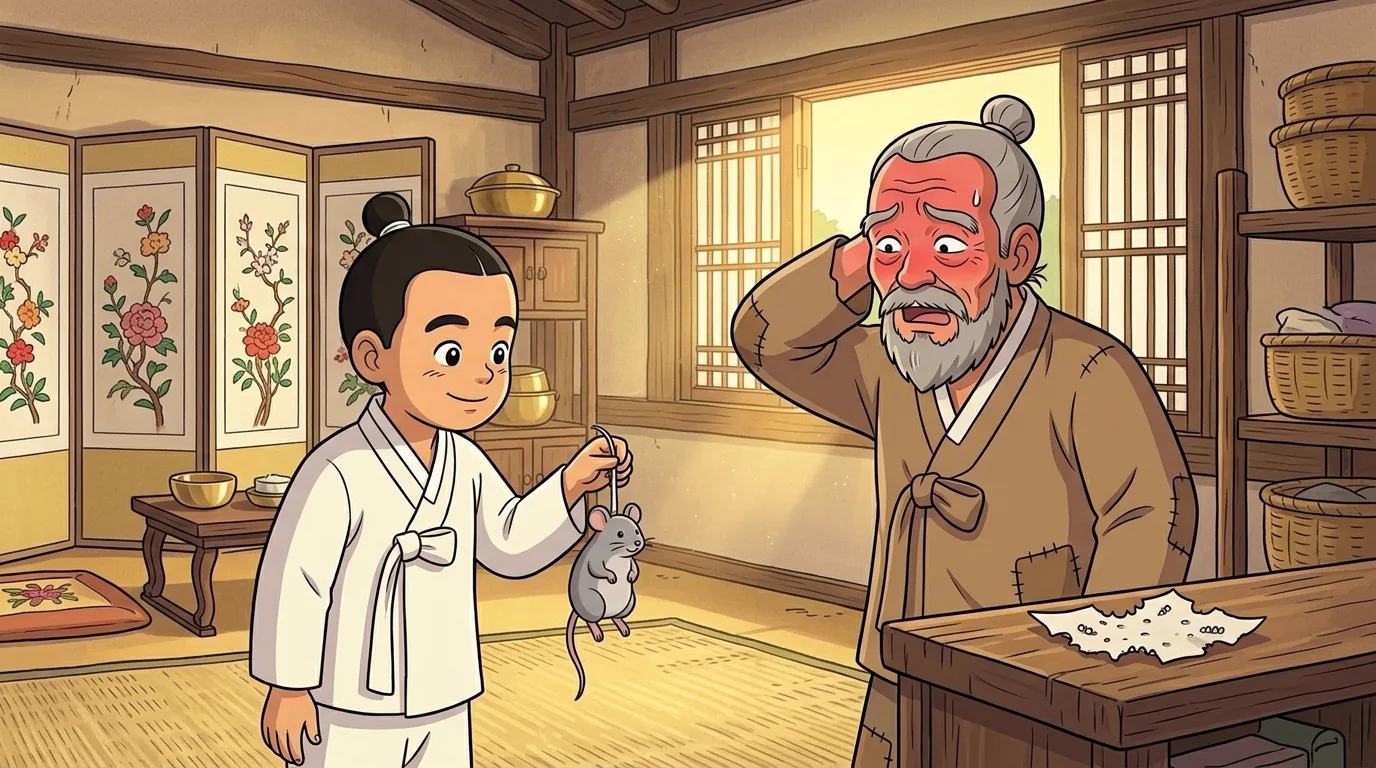
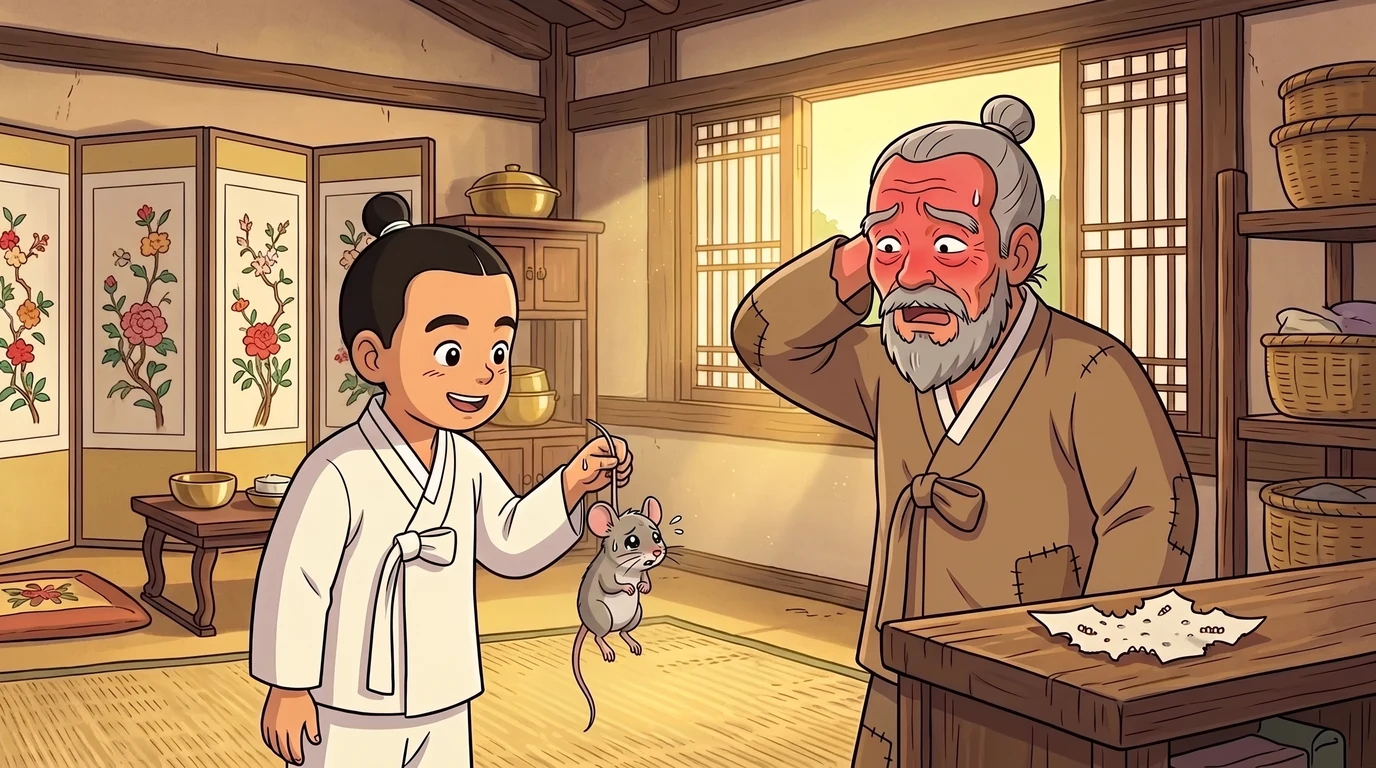
우리말 낱말 다섯 권 — 할미꽃·청개구리·까치·며느리·좁쌀
쪽마다 개수를 맞추지 않는다. 그 쪽에 아이가 모를 말이 여섯이면 여섯,
없으면 아예 없다. 「읽고 나서」 쪽은 어른이 읽는 글이라 비워 두었다.

뜻은 사전에서 베끼지 않고 아이 말로 새로 썼다.
  선반 — 벽에 달아 물건을 얹어 두는 널빤지.
  온데간데없다 — 어디로 갔는지 하나도 안 보이다.
  쥐 죽은 듯 — 아무 소리도 없이 아주 조용한 모양.
  힘에 부치다 — 힘이 모자라 벅차다.

좁쌀 한 톨 03-mouse 그림도 새로 그린 것으로 바꿨다. 쥐가 귀여워졌다.

diff --git a/learning/literacy-numeracy/story-books/korea-tales/banggwi-myeoneuri/app.js b/learning/literacy-numeracy/story-books/korea-tales/banggwi-myeoneuri/app.js
@@ -711,6 +711,101 @@ const AFTERWORD = {
     ]
 };
 
+
+/* ── 우리말 낱말 ────────────────────────────────────────────
+   아이가 아직 안 배웠을 만한 말만 그 쪽에 모았다. 없는 쪽은 비워 둔다.
+   사전 말투를 쓰지 않는다. 아이가 그대로 알아들을 말로 짧게 쓴다.
+   예문은 그 쪽에 나온 문장 그대로다. */
+const WORDS_KO = {
+    "cover": [
+        { w: "며느리", k: "아들의 아내.", s: "방귀쟁이 며느리는 지은이가 없는 구전 설화예요." },
+        { w: "기둥", k: "지붕을 받치고 선 굵은 나무.", s: "방귀 한 번에 기둥이 흔들릴 만큼 힘이 센 며느리가 나오는 이야기랍니다." },
+        { w: "부풀리다", k: "실제보다 크게 말하다.", s: "몸에서 나는 소리와 냄새를 크게 부풀려 웃음을 만드는 갈래가 따로 있어요." },
+        { w: "시집", k: "남편의 집안.", s: "옛날에 시집온 며느리는 시집 식구들 앞에서" },
+        { w: "소동", k: "여럿이 놀라 벌어지는 큰 일.", s: "참다 참다 터져 버린 방귀 하나가 이렇게 큰 소동이 되는 것도" }
+    ],
+    "01-bride.webp": [
+        { w: "야무지다", k: "하는 일이 빈틈없고 똑 부러지다.", s: "얼굴도 곱고 부지런한 데다 손끝까지 야무졌지요." },
+        { w: "새벽같이", k: "아주 이른 아침에.", s: "새벽같이 일어나 물을 긷고 밥을 지었답니다." },
+        { w: "긷다", k: "우물이나 샘에서 물을 떠 오다.", s: "새벽같이 일어나 물을 긷고 밥을 지었답니다." },
+        { w: "자자하다", k: "소문이 널리 퍼지다.", s: "동네에서도 소문이 자자했지요." },
+        { w: "푸르뎅뎅하다", k: "보기 싫게 푸르스름하다.", s: "노랗다 못해 푸르뎅뎅해졌지 뭐예요." }
+    ],
+    "02-ask.webp": [
+        { w: "우물쭈물하다", k: "말을 못 하고 망설이다.", s: "며느리는 한참을 우물쭈물하기만 했습니다." },
+        { w: "차마", k: "부끄럽거나 안타까워 도저히.", s: "차마 입이 떨어지지 않는 모양이었어요." },
+        { w: "꼼지락거리다", k: "조금씩 느리게 움직이다.", s: "방바닥만 내려다보며 손가락을 꼼지락거렸지요." }
+    ],
+    "03-permit.webp": [
+        { w: "대수", k: "크게 문제 될 일.", s: "허허, 그게 무슨 대수라고." },
+        { w: "내젓다", k: "손을 좌우로 흔들다.", s: "시아버지가 껄껄 웃으며 손을 내저었습니다." },
+        { w: "여태", k: "지금까지 줄곧.", s: "별것도 아닌 일로 여태 참았나 싶었거든요." },
+        { w: "흉보다", k: "남의 잘못을 들추어 말하다.", s: "이 집에서 그걸 흉볼 사람이 어디 있느냐." },
+        { w: "갸웃하다", k: "고개를 조금 기울이다.", s: "시어머니가 고개를 갸웃했어요." }
+    ],
+    "04-brace.webp": [
+        { w: "설마설마", k: "그럴 리 없다고 자꾸 여기는 모양.", s: "식구들은 설마설마 하면서도 하나씩 붙들었습니다." },
+        { w: "하도", k: "너무나.", s: "며느리가 하도 진지하게 말하니" },
+        { w: "진지하다", k: "장난기 없이 참되다.", s: "며느리가 하도 진지하게 말하니" },
+        { w: "대청", k: "옛집 가운데 있는 넓은 마루.", s: "시아버지는 대청 기둥을 두 팔로 끌어안았어요." },
+        { w: "문고리", k: "문을 여닫을 때 잡는 고리.", s: "시어머니는 문고리를 잡고" },
+        { w: "솥뚜껑", k: "솥을 덮는 뚜껑.", s: "남편은 솥뚜껑 손잡이를 꼭 쥐었습니다." },
+        { w: "쥐 죽은 듯", k: "아무 소리도 없이 아주 조용한 모양.", s: "방 안이 쥐 죽은 듯 조용해졌지요." },
+        { w: "마른침", k: "긴장했을 때 삼키는 침.", s: "어디선가 마른침 삼키는 소리가 났답니다." }
+    ],
+    "05-boom.webp": [
+        { w: "들썩이다", k: "들렸다 내려앉았다 하다.", s: "집이 통째로 들썩였습니다." },
+        { w: "기왓장", k: "지붕을 덮는 기와 한 장.", s: "문짝이 떨어져 나가고 기왓장이 우수수 쏟아졌어요." },
+        { w: "우수수", k: "여럿이 한꺼번에 쏟아지는 모양.", s: "기왓장이 우수수 쏟아졌어요." },
+        { w: "치솟다", k: "위로 세차게 솟아오르다.", s: "마당의 흙먼지가 하늘까지 치솟았지요." },
+        { w: "우지끈", k: "단단한 것이 부러지는 소리.", s: "기둥이 우지끈 소리를 냈지요." }
+    ],
+    "06-fly.webp": [
+        { w: "모이", k: "새에게 주는 먹이.", s: "마당에서 모이를 쪼던 닭들은 깃털만 남기고 사라져 버렸답니다." },
+        { w: "쪼다", k: "부리로 콕콕 찍다.", s: "마당에서 모이를 쪼던 닭들은" },
+        { w: "끙끙거리다", k: "아파서 앓는 소리를 내다.", s: "여기저기서 끙끙거리는 소리가 났지요." },
+        { w: "발그레하다", k: "알맞게 발그스름하다.", s: "며느리의 얼굴빛은 어느새 발그레하게 돌아와 있었습니다." }
+    ],
+    "07-send.webp": [
+        { w: "상투", k: "옛날 어른 남자가 머리를 틀어 올린 것.", s: "상투가 다 풀어져 머리가 산발이었지요." },
+        { w: "산발", k: "머리가 마구 흐트러진 모양.", s: "상투가 다 풀어져 머리가 산발이었지요." },
+        { w: "친정", k: "시집온 여자의 원래 집.", s: "아가야, 아무래도 친정에 다녀오는 게 좋겠구나." },
+        { w: "보따리", k: "물건을 싸서 꾸린 짐.", s: "보따리 하나가 전부였지요." },
+        { w: "터덜터덜", k: "힘없이 걷는 모양.", s: "둘은 발끝만 내려다보며 터덜터덜 걸었답니다." }
+    ],
+    "08-road.webp": [
+        { w: "소란스럽다", k: "시끄럽고 어수선하다.", s: "한참을 걷는데 길가가 몹시 소란스러웠습니다." },
+        { w: "웅성거리다", k: "여럿이 모여 수군대다.", s: "커다란 배나무 아래에 장수들이 잔뜩 모여 웅성거리고 있었어요." },
+        { w: "주렁주렁", k: "열매가 많이 매달린 모양.", s: "나무에는 잘 익은 노란 배가 주렁주렁 달려 있었답니다." },
+        { w: "장대", k: "길고 굵은 막대기.", s: "장대가 닿아야 말이지." },
+        { w: "발을 동동 구르다", k: "안타까워 어쩔 줄 몰라 하다.", s: "장수들은 발만 동동 구르며 나무만 올려다보고 있었지요." }
+    ],
+    "09-offer.webp": [
+        { w: "소매", k: "옷의 팔을 넣는 부분.", s: "남편이 소매를 붙잡았지만" },
+        { w: "훑어보다", k: "위아래로 살펴보다.", s: "장수들이 며느리를 위아래로 훑어보았어요." },
+        { w: "킥킥", k: "참으며 웃는 소리.", s: "그러더니 저희끼리 킥킥 웃었지요." },
+        { w: "사다리", k: "높은 데를 오를 때 쓰는 것.", s: "댁이? 사다리도 없이?" },
+        { w: "절반", k: "반.", s: "따 주기만 하면 절반을 드리리다!" }
+    ],
+    "10-aim.webp": [
+        { w: "여미다", k: "옷을 단정히 잡아 매만지다.", s: "치맛자락을 단단히 여미면서요." },
+        { w: "딴판", k: "아주 다른 모습.", s: "목소리가 아까와는 딴판으로 야무졌지요." },
+        { w: "어리둥절하다", k: "뭐가 뭔지 몰라 얼떨떨하다.", s: "장수들이 어리둥절해하며 뒷걸음질을 쳤습니다." },
+        { w: "볼록하다", k: "겉으로 도도록하게 나오다.", s: "배가 볼록하게 부풀어 오르는 것이 보였답니다." }
+    ],
+    "11-pears.webp": [
+        { w: "휘청이다", k: "힘없이 이리저리 흔들리다.", s: "배나무가 통째로 휘청였습니다." },
+        { w: "뿌리째", k: "뿌리까지 통째로.", s: "뿌리째 뽑히는 게 아닌가 싶을 만큼 크게 흔들렸지요." }
+    ],
+    "12-home.webp": [
+        { w: "엽전", k: "옛날에 쓰던 둥근 쇠돈.", s: "장수들은 약속대로 배와 엽전을 한 아름 안겨 주었습니다." },
+        { w: "한 아름", k: "두 팔로 안을 만큼의 양.", s: "배와 엽전을 한 아름 안겨 주었습니다." },
+        { w: "꾸러미", k: "여럿을 한데 묶은 덩이.", s: "엽전 꾸러미를 보고 입이 함박만 해졌지요." },
+        { w: "함박", k: "아주 큰 함지박.", s: "입이 함박만 해졌지요." },
+        { w: "웃음바다", k: "여럿이 한꺼번에 크게 웃는 모습.", s: "온 집안이 웃음바다가 되었답니다." }
+    ]
+};
+
 /* ── 한국어·영어 ────────────────────────────────────────────
    글은 두 벌이다. 위쪽 단추를 누르면 EN 쪽으로 갈아 끼우고 쪽을 다시 짠다.
    영어 원고가 없는 책은 단추가 아예 뜨지 않는다. */

diff --git a/learning/literacy-numeracy/story-books/korea-tales/halmikkot/app.js b/learning/literacy-numeracy/story-books/korea-tales/halmikkot/app.js
@@ -628,6 +628,87 @@ const AFTERWORD = {
     ]
 };
 
+
+/* ── 우리말 낱말 ────────────────────────────────────────────
+   아이가 아직 안 배웠을 만한 말만 그 쪽에 모았다. 없는 쪽은 비워 둔다.
+   사전 말투를 쓰지 않는다. 아이가 그대로 알아들을 말로 짧게 쓴다.
+   예문은 그 쪽에 나온 문장 그대로다. */
+const WORDS_KO = {
+    "cover": [
+        { w: "유래담", k: "왜 그렇게 되었는지를 풀어 주는 이야기.", s: "이야기로 풀어낸 유래담이랍니다." },
+        { w: "볕", k: "해에서 오는 따뜻한 빛.", s: "이른 봄 무덤가나 볕 잘 드는 언덕에 피는 우리나라 들꽃이에요." },
+        { w: "들꽃", k: "들이나 산에 저절로 피는 꽃.", s: "볕 잘 드는 언덕에 피는 우리나라 들꽃이에요." },
+        { w: "줄기", k: "잎과 꽃을 받치고 서 있는 부분.", s: "줄기가 활처럼 굽어 꽃이 늘 땅을 내려다보고" },
+        { w: "솜털", k: "아주 가늘고 부드러운 털.", s: "온몸에 흰 솜털이 촘촘히 나 있지요." },
+        { w: "촘촘히", k: "사이가 아주 좁게 빽빽이.", s: "온몸에 흰 솜털이 촘촘히 나 있지요." }
+    ],
+    "01-daughters.webp": [
+        { w: "산골", k: "산속 깊이 들어앉은 마을.", s: "옛날 어느 산골에 젊은 어머니가 딸 셋과 살았습니다." },
+        { w: "밤낮없이", k: "밤에도 낮에도 쉬지 않고.", s: "일찍 혼자가 된 어머니는 밤낮없이 일했어요." },
+        { w: "나물", k: "밥반찬으로 먹는 들풀이나 산풀.", s: "아침 일찍 일어나 산에 올라 나물을 캐고" },
+        { w: "등잔", k: "기름을 태워 불을 밝히던 옛날 등.", s: "밤에는 등잔 밑에서 남의 옷을 만들어 주었지요." },
+        { w: "손마디", k: "손가락이 접히는 마디.", s: "그러는 사이 손마디가 굵어지고 허리가 굽어 갔지요." },
+        { w: "배곯다", k: "먹을 것이 없어 배가 고프다.", s: "우리 딸들 배곯게는 안 한다." }
+    ],
+    "02-married.webp": [
+        { w: "시집가다", k: "여자가 결혼해 남편 집으로 가다.", s: "세월이 흘러 딸들이 하나둘 시집을 갔습니다." },
+        { w: "기와집", k: "지붕을 기와로 덮은 좋은 집.", s: "첫째는 고개 너머 큰 기와집으로 갔어요." },
+        { w: "초가집", k: "짚으로 지붕을 덮은 집.", s: "막내는 산 아래 작은 초가집으로 갔답니다." },
+        { w: "배웅하다", k: "떠나는 사람을 따라 나가 보내 주다.", s: "어머니는 세 딸을 차례로 배웅했어요." },
+        { w: "오냐", k: "어른이 아이 말에 그래 하고 답하는 말.", s: "오냐, 걱정 말거라." }
+    ],
+    "03-alone.webp": [
+        { w: "기운", k: "몸을 움직이게 하는 힘.", s: "혼자 남은 어머니는 해가 갈수록 기운이 빠졌습니다." },
+        { w: "통", k: "도무지, 전혀.", s: "밥맛도 통 없구나." },
+        { w: "말다", k: "국이나 물에 밥을 넣어 풀다.", s: "어머니는 남은 밥을 물에 말아 혼자 먹곤 했답니다." },
+        { w: "꼬부랑", k: "등이 굽어 구부정한 모양.", s: "어머니는 어느새 꼬부랑 할머니가 되었어요." },
+        { w: "흐드러지다", k: "꽃이 아주 많이 활짝 피다.", s: "마당가에는 진달래가 흐드러지게 피어 있었지요." }
+    ],
+    "04-first.webp": [
+        { w: "인기척", k: "사람이 있는 낌새.", s: "문 안에서 부스럭거리는 인기척이 났어요." },
+        { w: "이내", k: "곧, 얼마 지나지 않아.", s: "그러더니 이내 조용해졌습니다." },
+        { w: "끝내", k: "마지막까지.", s: "문은 끝내 열리지 않았지요." }
+    ],
+    "05-second.webp": [
+        { w: "나룻배", k: "강을 건네주는 작은 배.", s: "할머니는 나룻배를 얻어 타고 강을 건너 둘째 딸네로 갔습니다." },
+        { w: "사공", k: "배를 젓는 사람.", s: "맏이에게 주려고 들고 온 나물을 사공에게 대신 주었지요." },
+        { w: "맏이", k: "여러 자식 가운데 첫째.", s: "맏이에게 주려고 들고 온 나물을" },
+        { w: "기색", k: "얼굴에 드러난 마음.", s: "그런데 둘째의 얼굴이 반가운 기색이 아니었습니다." },
+        { w: "스르르", k: "소리 없이 슬며시.", s: "대문이 스르르 닫혔습니다." }
+    ],
+    "06-hill.webp": [
+        { w: "기울다", k: "해가 서쪽으로 내려가다.", s: "해가 기울었습니다." },
+        { w: "산그늘", k: "산이 해를 가려 생기는 그늘.", s: "산그늘이 살며시 내려앉기 시작했어요." },
+        { w: "천근만근", k: "아주 무거운 것을 이르는 말.", s: "다리가 천근만근이었답니다." },
+        { w: "간신히", k: "아주 힘들게 겨우.", s: "간신히 언덕에 올라서자" }
+    ],
+    "07-rest.webp": [
+        { w: "중턱", k: "산이나 언덕의 가운데쯤.", s: "언덕 중턱까지 내려오자 할머니는 그만 주저앉고 말았습니다." },
+        { w: "주저앉다", k: "힘이 빠져 그 자리에 앉아 버리다.", s: "할머니는 그만 주저앉고 말았습니다." },
+        { w: "가쁘다", k: "숨쉬기가 힘들다.", s: "숨이 가빠 더는 한 걸음도 걸을 수가 없었어요." },
+        { w: "가만가만", k: "아주 조용하고 부드럽게.", s: "봄바람이 할머니의 흰머리를 가만가만 쓸고 지나갔답니다." }
+    ],
+    "08-search.webp": [
+        { w: "서성이다", k: "한자리에서 왔다 갔다 하다.", s: "그 무렵 막내는 집 앞을 서성이고 있었어요." },
+        { w: "손에 잡히지 않다", k: "마음이 딴 데 있어 일이 안되다.", s: "막내는 일이 손에 잡히지 않았어요." },
+        { w: "앞치마", k: "옷 앞에 두르는 천.", s: "막내는 결국 앞치마를 벗어 던지고 언덕으로 뛰었습니다." },
+        { w: "가파르다", k: "몹시 비탈지다.", s: "언덕길이 어찌나 가파른지 몇 번이나 미끄러졌어요." },
+        { w: "어둑어둑", k: "조금씩 어두워지는 모양.", s: "해가 이미 넘어가 사방이 어둑어둑해지고 있었어요." }
+    ],
+    "09-found.webp": [
+        { w: "마침내", k: "오래 기다린 끝에 드디어.", s: "언덕 중턱에서 막내는 마침내 할머니를 찾아냈습니다." },
+        { w: "어리다", k: "웃음이나 눈물이 살짝 비치다.", s: "하지만 얼굴에는 웃음이 어려 있었어요." },
+        { w: "한달음에", k: "쉬지 않고 단숨에.", s: "막내는 할머니를 등에 업고 한달음에 언덕을 내려갔지요." }
+    ],
+    "10-flower.webp": [
+        { w: "아랫목", k: "방에서 불기운이 닿아 따뜻한 자리.", s: "막내는 할머니를 업고 와 아랫목에 누이고 정성을 다해 돌보았어요." },
+        { w: "기력", k: "살아 움직일 힘.", s: "그러나 할머니는 이미 기력이 다한 뒤였어요." },
+        { w: "슬피", k: "아주 슬프게.", s: "막내는 슬피 울며" },
+        { w: "양지바르다", k: "볕이 잘 들다.", s: "할머니를 양지바른 언덕에 고이 묻어 드렸어요." },
+        { w: "이듬해", k: "그다음 해.", s: "이듬해 봄, 할머니의 무덤 앞에 처음 보는 꽃이 피었어요." }
+    ]
+};
+
 /* ── 한국어·영어 ────────────────────────────────────────────
    글은 두 벌이다. 위쪽 단추를 누르면 EN 쪽으로 갈아 끼우고 쪽을 다시 짠다.
    영어 원고가 없는 책은 단추가 아예 뜨지 않는다. */

diff --git a/learning/literacy-numeracy/story-books/korea-tales/cheonggaeguri/app.js b/learning/literacy-numeracy/story-books/korea-tales/cheonggaeguri/app.js
@@ -669,6 +669,84 @@ const AFTERWORD = {
     ]
 };
 
+
+/* ── 우리말 낱말 ────────────────────────────────────────────
+   아이가 아직 안 배웠을 만한 말만 그 쪽에 모았다. 없는 쪽은 비워 둔다.
+   사전 말투를 쓰지 않는다. 아이가 그대로 알아들을 말로 짧게 쓴다.
+   예문은 그 쪽에 나온 문장 그대로다. */
+const WORDS_KO = {
+    "cover": [
+        { w: "유래담", k: "왜 그렇게 되었는지를 풀어 주는 이야기.", s: "곧 유래담에 속해요." },
+        { w: "유난히", k: "여느 때보다 눈에 띄게.", s: "비 오는 날 개구리가 유난히 크게 우는 까닭을" }
+    ],
+    "01-opposite.webp": [
+        { w: "개울가", k: "작은 시냇물 옆.", s: "옛날 개울가 버드나무 밑에 청개구리 모자가 살았습니다." },
+        { w: "버드나무", k: "물가에 서서 가지를 늘어뜨리는 나무.", s: "옛날 개울가 버드나무 밑에 청개구리 모자가 살았습니다." },
+        { w: "모자", k: "엄마와 아들.", s: "청개구리 모자가 살았습니다." },
+        { w: "별나다", k: "남과 달리 유별나다.", s: "그런데 이 아들이 아주 별났어요." },
+        { w: "거꾸로", k: "반대로.", s: "엄마 말을 늘 거꾸로만 했거든요." },
+        { w: "할 말을 잃다", k: "어이가 없어 아무 말도 못 하다.", s: "엄마는 그만 할 말을 잃었습니다." },
+        { w: "그러거나 말거나", k: "남이야 어떻든 상관없이.", s: "아들은 그러거나 말거나 폴짝폴짝 뛰어다녔어요." }
+    ],
+    "02-backwards.webp": [
+        { w: "아랑곳하다", k: "남의 일을 마음에 두고 살피다.", s: "엄마 걱정은 아랑곳도 하지 않았어요." },
+        { w: "팔자", k: "타고난 운수.", s: "아이고, 내 팔자야." },
+        { w: "짚다", k: "손으로 눌러 대다.", s: "엄마는 이마를 짚었어요." },
+        { w: "곰곰", k: "여러 번 깊이 생각하는 모양.", s: "하루는 엄마가 곰곰 생각하다 이렇게 말했습니다." }
+    ],
+    "03-gulgae.webp": [
+        { w: "일러 주다", k: "알려 주고 가르쳐 주다.", s: "엄마가 몇 번이나 다시 일러 주었지만 소용이 없었어요." },
+        { w: "소용", k: "쓸모나 보람.", s: "엄마가 몇 번이나 다시 일러 주었지만 소용이 없었어요." },
+        { w: "목이 쉬다", k: "많이 소리쳐 목소리가 갈라지다.", s: "엄마는 그만 목이 다 쉬었답니다." },
+        { w: "연잎", k: "연못에 뜨는 넓은 잎.", s: "엄마 청개구리는 얼굴이 빨개져 연잎 뒤로 숨었어요." },
+        { w: "철이 들다", k: "사리를 알 만큼 자라다.", s: "언젠가는 철이 들겠거니 했지요." }
+    ],
+    "04-sigh.webp": [
+        { w: "한숨", k: "걱정될 때 길게 내쉬는 숨.", s: "엄마는 밤마다 한숨을 쉬었어요." },
+        { w: "잘게", k: "아주 작은 조각으로.", s: "달빛이 개울물에 잘게 부서지는 밤이면 더 그랬지요." },
+        { w: "잠을 이루다", k: "잠이 들다.", s: "엄마는 잠을 이루지 못했어요." },
+        { w: "쓸다", k: "손바닥으로 살살 문지르다.", s: "엄마는 아들의 등을 가만히 쓸어 주었어요." },
+        { w: "어색하다", k: "익숙하지 않아 서먹하다.", s: "아들은 그 손길이 어색해 얼른 몸을 뺐답니다." }
+    ],
+    "05-sick.webp": [
+        { w: "자리에 눕다", k: "아파서 앓아눕다.", s: "그러던 어느 날, 엄마가 그만 자리에 눕고 말았어요." },
+        { w: "무렵", k: "그때쯤.", s: "여름이 다 갈 무렵이었어요." },
+        { w: "힘에 부치다", k: "힘이 모자라 벅차다.", s: "팔을 들어 올리는 것도 힘에 부쳤습니다." },
+        { w: "얼굴빛", k: "얼굴에 나타난 빛깔.", s: "엄마의 얼굴빛이 하얗게 변했지요." },
+        { w: "머리맡", k: "누운 사람의 머리 곁.", s: "아들이 머리맡에 쪼그리고 앉았어요." },
+        { w: "그제야", k: "그때에야 비로소.", s: "아들은 그제야 겁이 났어요." },
+        { w: "한 발짝", k: "한 걸음.", s: "엄마 곁을 한 발짝도 떠나지 않았지요." }
+    ],
+    "06-plan.webp": [
+        { w: "가쁘다", k: "숨쉬기가 힘들다.", s: "숨소리가 자꾸 가빠졌어요." },
+        { w: "헤아리다", k: "이리저리 따져 생각하다.", s: "엄마는 눈을 감고 곰곰 헤아려 보았어요." },
+        { w: "되뇌다", k: "같은 말을 자꾸 되풀이하다.", s: "엄마는 속으로 몇 번이나 되뇌었어요." },
+        { w: "뒤척이다", k: "누워서 몸을 이리저리 돌리다.", s: "한참을 뒤척이던 엄마가 마침내 마음을 정했습니다." }
+    ],
+    "07-last-words.webp": [
+        { w: "바짝", k: "아주 가까이 붙게.", s: "아들이 귀를 바짝 대었어요." },
+        { w: "앞발", k: "짐승의 앞쪽 발.", s: "엄마가 아들의 앞발을 꼭 잡았어요." },
+        { w: "세상을 떠나다", k: "죽다를 조심스럽게 이르는 말.", s: "엄마가 세상을 떠나거든, 산이 아니라 개울가에 묻어 다오." },
+        { w: "졸졸", k: "물이 가늘게 흐르는 소리.", s: "개울물 흐르는 소리만 졸졸 났어요." }
+    ],
+    "08-regret.webp": [
+        { w: "목놓아 울다", k: "소리를 크게 내며 실컷 울다.", s: "청개구리는 그제야 개울가에 주저앉아 목놓아 울었습니다." },
+        { w: "훔치다", k: "물기를 닦아 내다.", s: "울다 지친 청개구리가 고개를 들고 앞발로 눈물을 훔쳤습니다." },
+        { w: "퉁퉁", k: "살이 붓는 모양.", s: "아들의 눈이 퉁퉁 부어 있었어요." }
+    ],
+    "09-grave.webp": [
+        { w: "모시다", k: "웃어른을 정성껏 대하다.", s: "청개구리는 엄마를 개울가에 모셨어요." },
+        { w: "까지다", k: "살갗이 벗겨지다.", s: "앞발이 다 까지도록 옮기고 또 옮겼습니다." }
+    ],
+    "10-rain.webp": [
+        { w: "장맛비", k: "여름에 여러 날 이어 내리는 비.", s: "장맛비가 며칠이나 이어졌어요." },
+        { w: "불어 오르다", k: "물이 많아져 높아지다.", s: "개울물이 점점 불어 올랐어요." },
+        { w: "찰랑찰랑", k: "물이 가장자리에 닿아 넘칠 듯한 모양.", s: "무덤 앞 돌까지 찰랑찰랑 물이 닿았지요." },
+        { w: "빗줄기", k: "굵게 내리는 빗물의 줄.", s: "빗줄기가 굵어질수록 울음소리도 커졌어요." },
+        { w: "자리를 뜨다", k: "있던 곳에서 떠나다.", s: "청개구리는 그래도 자리를 뜨지 않았답니다." }
+    ]
+};
+
 /* ── 한국어·영어 ────────────────────────────────────────────
    글은 두 벌이다. 위쪽 단추를 누르면 EN 쪽으로 갈아 끼우고 쪽을 다시 짠다.
    영어 원고가 없는 책은 단추가 아예 뜨지 않는다. */

diff --git a/learning/literacy-numeracy/story-books/korea-tales/eunhye-kkachi/app.js b/learning/literacy-numeracy/story-books/korea-tales/eunhye-kkachi/app.js
@@ -651,6 +651,81 @@ const AFTERWORD = {
     ]
 };
 
+
+/* ── 우리말 낱말 ────────────────────────────────────────────
+   아이가 아직 안 배웠을 만한 말만 그 쪽에 모았다. 없는 쪽은 비워 둔다.
+   사전 말투를 쓰지 않는다. 아이가 그대로 알아들을 말로 짧게 쓴다.
+   예문은 그 쪽에 나온 문장 그대로다. */
+const WORDS_KO = {
+    "cover": [
+        { w: "은혜", k: "남에게서 받은 고마운 도움.", s: "은혜 갚은 까치는 지은이가 없는 구전 설화예요." },
+        { w: "갚다", k: "받은 것을 도로 돌려주다.", s: "사람이 구해 준 동물이 은혜를 되갚는 이야기가 아주 많아요." },
+        { w: "무대", k: "이야기가 벌어지는 자리.", s: "이야기의 무대가 되는 절은 강원도 원주 치악산의 상원사로 전해져요." },
+        { w: "갈래", k: "여럿으로 나뉜 한 줄기.", s: "옛사람들이 즐겨 들려주던 이야기 갈래랍니다." }
+    ],
+    "01-road.webp": [
+        { w: "선비", k: "옛날에 글을 읽고 공부하던 사람.", s: "옛날에 활을 잘 쏘는 선비가 하나 있었습니다." },
+        { w: "과거", k: "벼슬아치를 뽑던 옛날 시험.", s: "과거는 벼슬아치를 뽑는 시험이었어요." },
+        { w: "벼슬아치", k: "나라 일을 맡아보던 사람.", s: "과거는 벼슬아치를 뽑는 시험이었어요." },
+        { w: "한양", k: "조선 시대의 서울.", s: "과거를 보러 한양으로 가는 길이었지요." },
+        { w: "떳떳하다", k: "부끄러울 것이 없다.", s: "과거에 붙어야 어머니께 떳떳하지." },
+        { w: "재촉하다", k: "빨리하라고 서두르다.", s: "선비는 걸음을 재촉했어요." },
+        { w: "바스락거리다", k: "마른 잎이 스치는 소리가 나다.", s: "나뭇잎이 바스락거릴 때마다 괜히 뒤를 돌아보게 되었습니다." }
+    ],
+    "02-nest.webp": [
+        { w: "요란하다", k: "시끄럽고 어수선하다.", s: "그때 머리 위에서 요란한 소리가 들렸어요." },
+        { w: "둥지", k: "새가 알을 낳고 사는 집.", s: "커다란 나무 꼭대기에 까치 둥지가 하나 있었습니다." },
+        { w: "퍼덕이다", k: "날개를 크게 치다.", s: "까치 두 마리가 정신없이 날개를 퍼덕이고 있었지요." },
+        { w: "구렁이", k: "아주 큰 뱀.", s: "둥지 쪽으로 시커먼 구렁이가 기어오르고 있었어요." },
+        { w: "팔뚝", k: "팔꿈치부터 손목까지.", s: "어른 팔뚝만 한 놈이었습니다." },
+        { w: "되풀이하다", k: "같은 일을 자꾸 다시 하다.", s: "까치들이 구렁이 머리로 달려들었다가 튕겨 나기를 되풀이했어요." }
+    ],
+    "03-arrow.webp": [
+        { w: "메기다", k: "활에 화살을 걸다.", s: "선비는 얼른 활을 벗어 화살을 메겼습니다." },
+        { w: "시위", k: "활에 걸어 당기는 줄.", s: "시위가 팽팽하게 당겨졌어요." },
+        { w: "팽팽하다", k: "늘어진 데 없이 잔뜩 당겨지다.", s: "시위가 팽팽하게 당겨졌어요." },
+        { w: "맞히다", k: "겨눈 것에 딱 닿게 하다.", s: "화살이 그대로 날아가 구렁이를 맞혔어요." },
+        { w: "맴돌다", k: "한자리를 빙빙 돌다.", s: "까치 두 마리가 선비의 머리 위를 몇 바퀴나 맴돌았지요." }
+    ],
+    "04-house.webp": [
+        { w: "사방", k: "앞뒤 양옆, 온 둘레.", s: "다시 길을 걷다 보니 어느새 사방이 캄캄해졌어요." },
+        { w: "희미하다", k: "흐릿하고 어렴풋하다.", s: "희미한 달빛에 기대어 걸었지요." },
+        { w: "덩그러니", k: "홀로 우뚝 놓인 모양.", s: "가까이 가 보니 산속에 덩그러니 놓인 외딴집이었지요." },
+        { w: "외딴집", k: "다른 집과 뚝 떨어져 있는 집.", s: "산속에 덩그러니 놓인 외딴집이었지요." },
+        { w: "나그네", k: "먼 길을 가는 사람.", s: "지나가는 나그네입니다." },
+        { w: "묵다", k: "남의 집에서 자고 가다.", s: "하룻밤만 묵어 갈 수 있겠습니까?" },
+        { w: "창백하다", k: "핏기가 없어 하얗다.", s: "여인의 얼굴이 어쩐지 창백했어요." }
+    ],
+    "05-coil.webp": [
+        { w: "칭칭", k: "여러 번 단단히 감는 모양.", s: "커다란 구렁이 한 마리가 선비의 몸을 칭칭 감고 있었습니다!" },
+        { w: "서늘하다", k: "서느렇게 찬 기운이 돌다.", s: "서늘한 비늘이 목덜미에 닿았어요." },
+        { w: "비늘", k: "뱀이나 물고기 몸을 덮은 얇은 조각.", s: "서늘한 비늘이 목덜미에 닿았어요." },
+        { w: "목덜미", k: "목의 뒤쪽.", s: "서늘한 비늘이 목덜미에 닿았어요." },
+        { w: "까딱하다", k: "아주 조금 움직이다.", s: "선비는 팔 하나 까딱할 수 없었답니다." }
+    ],
+    "06-revenge.webp": [
+        { w: "조이다", k: "단단히 죄어 오다.", s: "구렁이가 몸을 조금씩 조여 왔어요." },
+        { w: "바짝", k: "물기가 아주 없이.", s: "선비는 입술이 바짝 말랐습니다." }
+    ],
+    "07-bell.webp": [
+        { w: "겨우겨우", k: "아주 힘들게.", s: "겨우겨우 짜낸 목소리였어요." },
+        { w: "차오르다", k: "가득 차서 올라오다.", s: "숨이 목까지 차올랐지요." }
+    ],
+    "08-ring.webp": [
+        { w: "희끄무레하다", k: "조금 허옇게 밝아 오다.", s: "창밖이 희끄무레해질 무렵이었어요." },
+        { w: "뱅뱅", k: "제자리에서 자꾸 도는 모양.", s: "구렁이가 뱅뱅 돌았지만 소리는 벌써 세 번이었어요." }
+    ],
+    "09-temple.webp": [
+        { w: "돋다", k: "없던 것이 새로 나오다.", s: "뿔이 돋고 비늘이 돋더니 커다란 용이 되었지요." },
+        { w: "들이받다", k: "세게 부딪다.", s: "제 몸으로 종을 들이받은 것이었어요." },
+        { w: "헝클어지다", k: "마구 뒤엉키다.", s: "날개가 다 헝클어져 있었지요." }
+    ],
+    "10-nest-home.webp": [
+        { w: "미루다", k: "뒤로 밀어 나중에 하다.", s: "선비는 과거 보는 일도 미루고 까치를 돌보았습니다." },
+        { w: "둥지를 틀다", k: "새가 둥지를 짓다.", s: "그 뒤로 까치는 해마다 그 집 마당에 둥지를 틀었답니다." }
+    ]
+};
+
 /* ── 한국어·영어 ────────────────────────────────────────────
    글은 두 벌이다. 위쪽 단추를 누르면 EN 쪽으로 갈아 끼우고 쪽을 다시 짠다.
    영어 원고가 없는 책은 단추가 아예 뜨지 않는다. */
